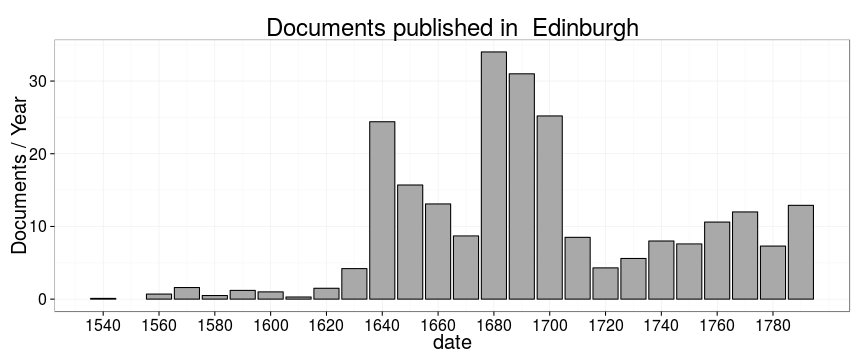
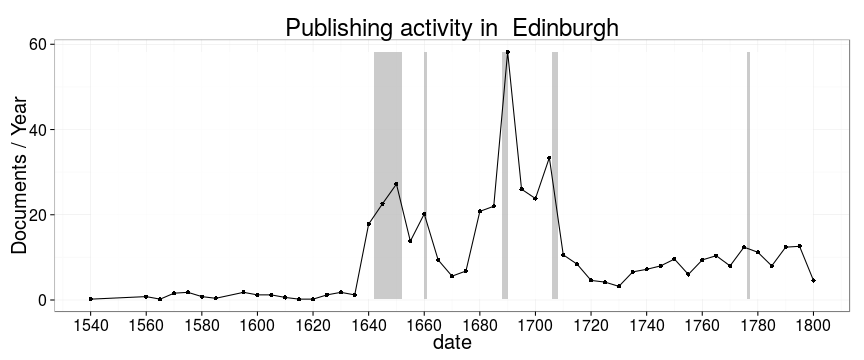
ok

diff --git a/inst/examples/20151023-LIBER.md b/inst/examples/20151023-LIBER.md
@@ -12,15 +12,6 @@ output: markdown_document
 
 ![plot of chunk 20151023LIBER-1](figure/20151023LIBER-1-1.png) 
 
-
-```
-## Warning: Removed 1 rows containing missing values (geom_segment).
-```
-
-```
-## Warning: Removed 1 rows containing missing values (geom_segment).
-```
-
 ![plot of chunk 20151023LIBER-2](figure/20151023LIBER-2-1.png) 
 
 
@@ -52,22 +43,6 @@ source("20151023-LIBER-video.R")
 
 
 
-
-
-```r
-theme_set(theme_bw(15))
-df2 <- df %>%
-    filter(!is.na(publication_country)) %>%
-    group_by(publication_country) %>%
-    summarize(paper = sum(paper.consumption.km2, na.rm = TRUE),
-	      docs = n()) %>%
-    arrange(desc(docs)) %>%
-    filter(publication_country %in% c("Scotland", "Ireland", "USA"))
-
-p1 <- ggplot(df2, aes(x = publication_country, y = docs)) + geom_bar(stat = "identity") + ggtitle("Title count") + theme(axis.text.x = element_text(angle = 45, hjust = 1)) + ylab("Documents") + xlab("")
-p2 <- ggplot(df2, aes(x = publication_country, y = paper)) + geom_bar(stat = "identity") + ggtitle("Paper consumption") + theme(axis.text.x = element_text(angle = 45, hjust = 1)) + ylab("Paper (km2)") + xlab("")
-grid.arrange(p1, p2, nrow = 1)
-```
 
 ![plot of chunk 20150611paris-places4](figure/20150611paris-places4-1.png) 
 
@@ -114,4 +89,9 @@ Each point represents a decade. Loess smoothing.
 
 ![plot of chunk 20151023LIBER-3b](figure/20151023LIBER-3b-1.png) 
 
+
+
+
+
+![plot of chunk 20151023LIBER-Edinburgh](figure/20151023LIBER-Edinburgh-1.png) 
 
